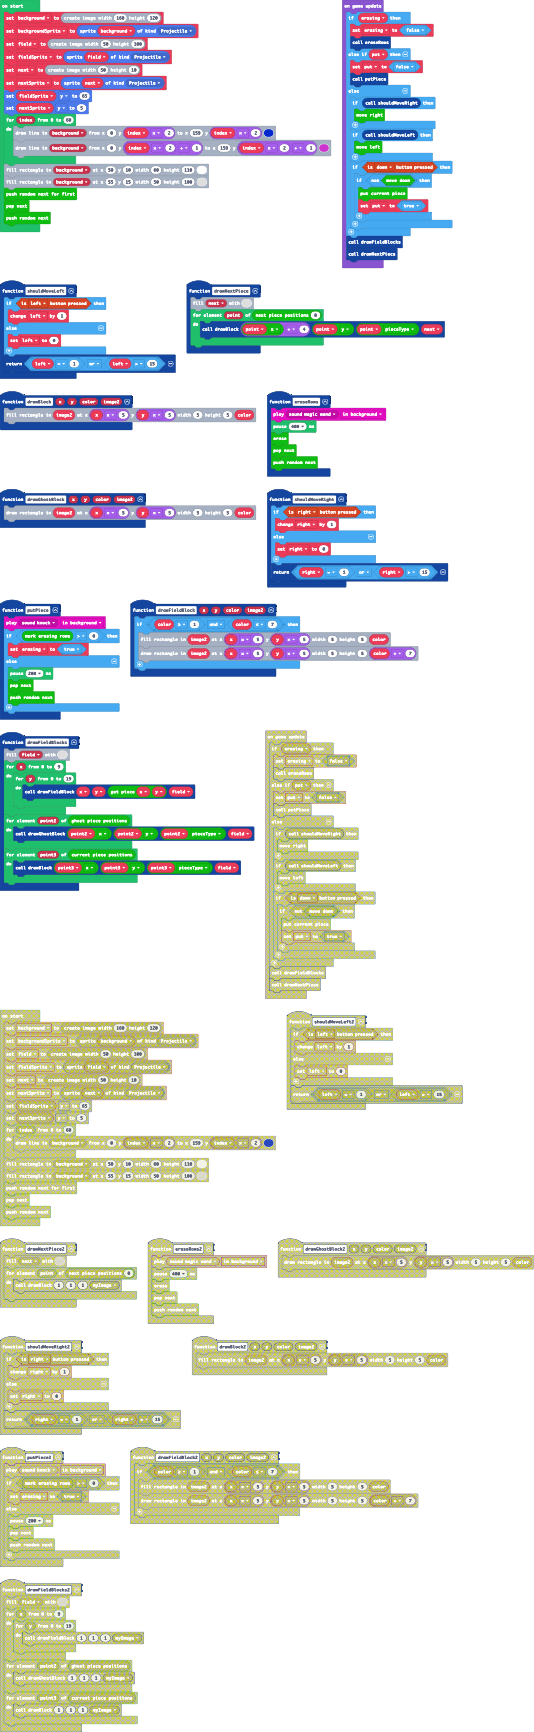
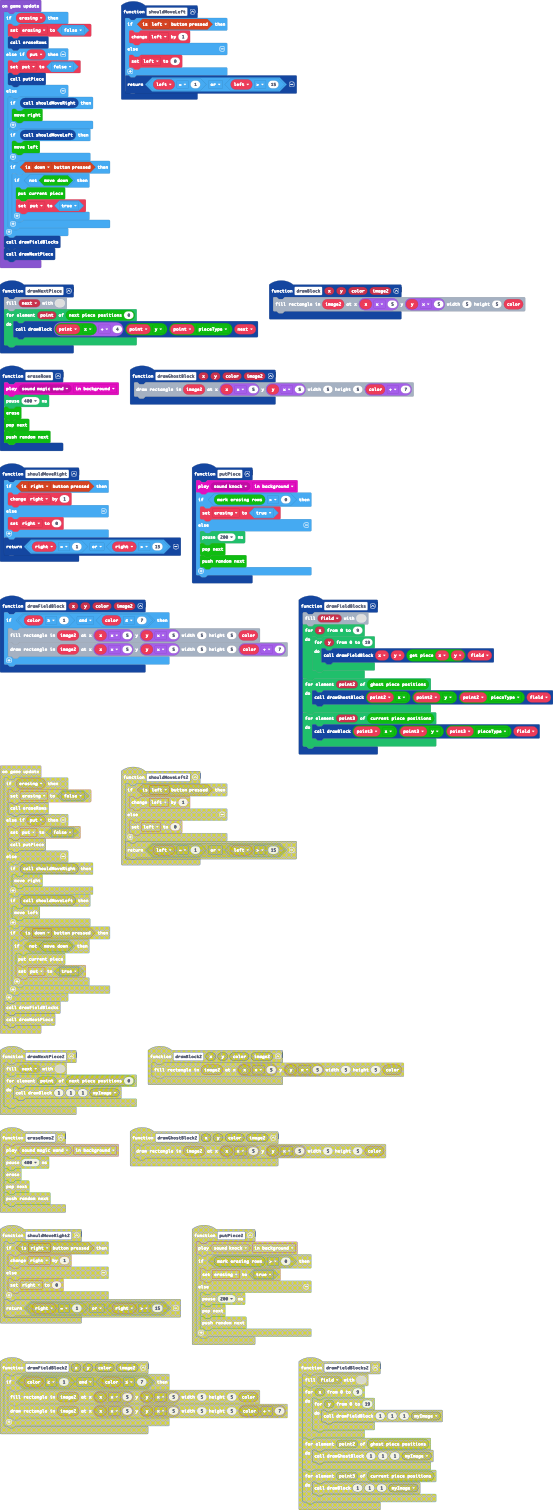
Change the ghost color

diff --git a/main.ts b/main.ts
@@ -70,7 +70,7 @@ function shouldMoveRight () {
     return right == 1 || right > 15
 }
 function drawGhostBlock (x: number, y: number, color: number, image2: Image) {
-    image2.drawRect(x * 5, y * 5, 5, 5, color)
+    image2.drawRect(x * 5, y * 5, 5, 5, color + 7)
 }
 let put = false
 let right = 0
